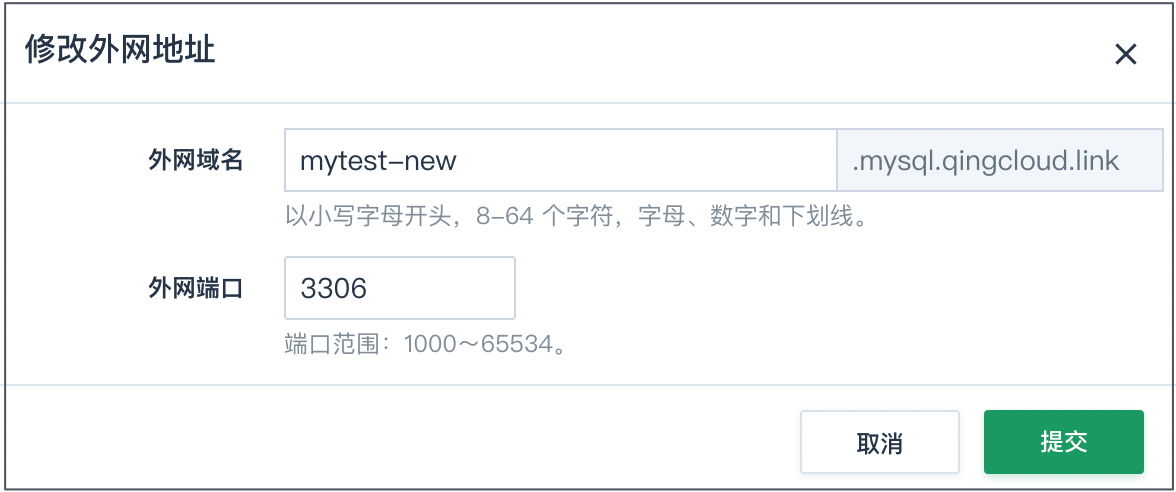
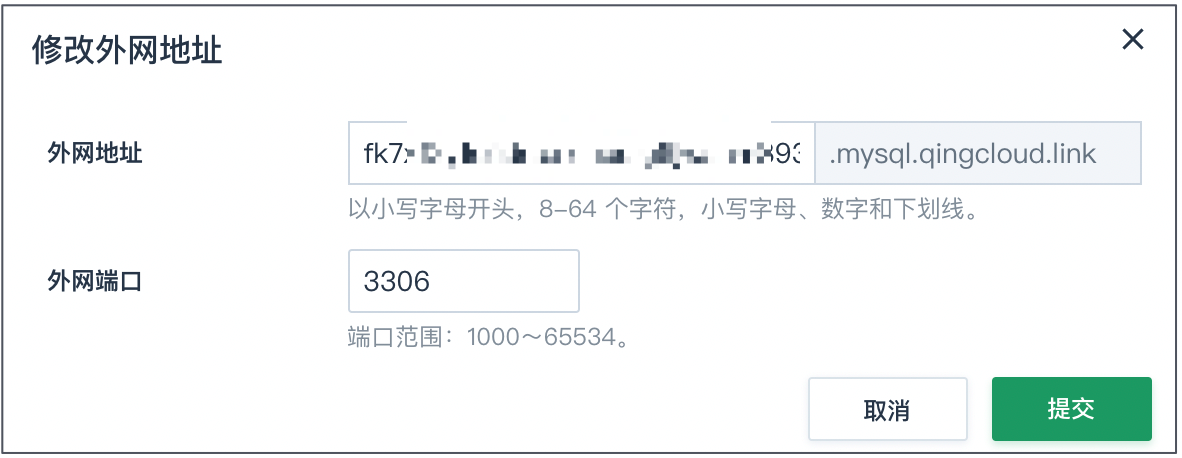
mysql，middware *：Add the new feature (#435)
* mysql *: add the new feature

* middware *：fix the link-title

* mysql/manual/cluster_lifecycle : Add the upgrade

Changed region(s): [[0.0, 0.0, 1.0, 1.0], [0.2449, 0.3057, 0.949, 0.4891], [0.2449, 0.5197, 0.5204, 0.7642]]

diff --git a/content/database/mysql/faq/access_problems.md b/content/database/mysql/faq/access_problems.md
@@ -14,39 +14,45 @@ draft: false
 ## 排查集群状态
 
 **排查方法** 
+
 1. 登录 AppCenter 集群管理页面，检查目标集群的运行状态是否为**活跃**。
 2. 查看集群节点资源状态，检查资源**硬盘使用率**指标是否已超过85%，硬盘空间已不足。
-3. 查看实例连接数检查**全部连接数**等服务指标，并通过`show variables like '%max%connections%';`查看集群最大连接数，确认连接数是否过满。
-         
+3. 查看实例连接数检查**全部连接数**等服务指标，并通过查看集群最大连接数，确认连接数是否过满。
+
    -`max_connections` 指允许同时连接的客户端总数。如果设定值为 `default`，表示最大连接数随内存规格变化。
-         
+
    -`max_user_connections` 指特定 MySQL 账号允许的最大同时连接数。
 
-**可能原因** 
+**可能原因**
+
 1. MySQL Plus 系统故障、状态异常，以及集群或表被锁定等。
 2. 数据库**硬盘使用率**超过85%后，数据库可能不可用，不能正常执行连接、写入等操作。
 3. 数据库连接数过满，可能会导致业务侧无法正常连接，也会导致实例全量备份和增量备份失败，影响业务的正常使用。
 
-**解决办法** 
+**解决办法**
+
 1. 选中目标集群，选择**更多操作** > **重启**，尝试重启数据库。
 2. 扩容集群硬盘空间，提升高硬盘可使用空间；删除过期数据；缩短 binlog 本地保留时长；对 CPU 、内存、硬盘等资源指标开启监控告警，及时了解集群资源状态。
 3. 排查业务连接是否有效，释放空闲连接；设置 `default` ，并扩容集群内存空间，提高 `max_connections` 值；对当前线程连接数等服务指标开启监控告警，及时了解集群服务状态。
 
 ## 排查连接方式
 
-**排查方法** 
+**排查方法**
+
 1. 检查已安装 MySQL 客户端版本是否低于集群 MySQL 版本。
 2. 登录 AppCenter 集群管理页面，检查目标集群是否开启 **SSL 加密传输**，以及检查用户账号是否开启**加密认证**。
 3. 检查连接命令是否正确。
 4. 在集群**账号**列表，检查连接用户账号是否正确授权或被删除。
 
 **可能原因** 
+
 1. MySQL 客户端版本低于集群 MySQL 版本，兼容性问题导致不能正常连接。
 2. 集群开启 **SSL 加密传输**后，用户账号未开启**加密认证**，或未正确上传证书或连接命令不完整。
 3. 连接命令不正确。
 4. 用户账号未被授权为`%`；用户账号被删除，不支持连接。
 
-**解决办法** 
+**解决办法**
+
 1. 确认数据库内核版本，重新选择 MySQL 客户端相应版本并安装。
 2. 同时开启集群 **SSL 加密传输**和数据库账户**加密认证**，且需将 SSL 证书上传到服务器。
 3. 获取正确的连接地址、端口参数配置、用户账号和密码、SSL 证书名等信息，并重试连接实例。
@@ -55,26 +61,31 @@ draft: false
 **正确连接方式示例：**
  
 - 开启 SSL 加密传输后，通过外网地址连接：`mysql -h <外网地址> -P 3306 -u testuser -p --ssl-ca=ca.pem --ssl-cert=client-cert.pem --ssl-key=client-key.pem`
+
 - 开启 SSL 加密传输后，通过内网地址连接：`mysql -h <外网地址> -P 3306 -u testuser -p --ssl-ca=ca.pem --ssl-cert=client-cert.pem --ssl-key=client-key.pem`
 
-> **注意** 
-> 
+> **注意**
+>
 > SSL 证书文件需上传到服务器，且需放在执行连接命令的路径下。
 
 ## 排查网络问题
 
 ### 内网地址连接
-**排查方法** 
+
+**排查方法**
+
 1. 检查云服务器与目标 MySQL Plus 集群是否在同一区域同一 VPC 网络。
 2. 检查云服务器关联安全组规则。
 3. 通过 `telnet <内网地址> <端口号>`命令，检查当前云服务是否可正常连接到数据库端口。
 
-**可能原因** 
+**可能原因**
+
 1. 不同区域或不同 VPC 网络的云资源之间网络隔离，内网互不相通，无法连接。
 2. 云服务器关联安全组未允许对外访问目标集群。
 3. 云服务器无法访问集群开放端口。
 
-**解决办法** 
+**解决办法**
+
 1. 根据就近原则，迁移数据库资源或重新购买云服务器，使其在同一 VPC 网络内；通过QingCloud 的 **VPC 网络**的`隧道服务`和 `VPN 服务`，打通资源间不同区域或不同 VPC 的网络。
 2. 为云服务器安全组添加上行规则，允许访问目标集群。
 3. 若云服务器无法连接目标数据库端口，请提工单联系技术支持。
@@ -82,12 +93,14 @@ draft: false
 ### 外网地址连接
 
 **排查方法** 
+
 1. IP 白名单添加`0.0.0.0/0`，检查是否能正常连接。
 2. 检查云服务器关联安全组规则。
 3. 检查云服务器子网关联网络 ACL 规则。
 4. 同区域云服务器进行 ping 集群 IP 测试验证。
 
 **可能原因** 
+
 1. 外部服务器 IP 地址变动等，导致白名单中配置不正确。
 2. 云服务器关联安全组未允许对外访问目标集群。
 3. 云服务器绑定的私有网络**启用**了网络 ACL，但未设置允许对外访问目标集群。
@@ -99,7 +112,7 @@ draft: false
    -正常连接，则在成功连接的客户端，执行`show processlist`查询进程信息。在 Host 行获取服务器正确 IP 地址，并将其添加到白名单。
 
    -不能连接，则请排查其他可能原因。
-   
+
    > **说明** 
    > 
    > `0.0.0.0/0`表示允许任何服务器连接数据库。验证结束后，建议立即删除白名单中配置。

diff --git a/content/database/mysql/manual/mgt_connect/mgt_external_network.md b/content/database/mysql/manual/mgt_connect/mgt_external_network.md
@@ -9,13 +9,13 @@ draft: false
 
 
 
-申请外网地址后，<!--若需修改外网访问地址，可修改外网域名和端口；-->若不再使用外网地址，可释放外网地址。
+申请外网地址后，若需修改外网访问地址，可修改外网域名和端口；若不再使用外网地址，可释放外网地址。
 
-> **说明**
-> 
-> 当前暂不支持修改外网地址。
+本小节主要介绍如何管理已申请的 MySQL Plus 外网地址，主要包括修改和释放外网地址。
 
-本小节主要介绍如何管理已申请的 MySQL Plus 外网地址，主要包括释放外网地址。
+## 约束限制
+
+- 外网域名全局唯一。若修改后域名冲突，将提示“该域名已存在，请修改”。
 
 ## 前提条件
 
@@ -23,18 +23,18 @@ draft: false
 - 已创建 MySQL Plus 集群，且集群状态为**活跃**。
 - 已开启外网访问。
 
-<!--## 修改外网地址
+## 修改外网地址
 
 1. 登录 QingCloud 管理控制台。
 2. 选择**产品与服务** > **关系型数据库 MySQL Plus**，进入集群管理页面。
 3. 选择目标集群，点击目标集群 ID，进入集群详情页面。
-4. 在**连接信息**模块，在 **外网地址**下方，点击编辑，弹出外网地址和 IP 配置窗口。
+4. 在**连接信息**模块，在 **外网地址**下方，点击**修改**，弹出修改外网地址窗口。
    
     <img src="../../../_images/modify_external_network.png" alt="修改外网地址" style="zoom:50%;" />
 
-5. 输入目标外网地址和端口号。
+5. 编辑外网地址和端口号。
     
-    **外网域名**: 不支持为空；长度8～64个字符；以小写字母开头，可包含小写字母（a～z）、大写字母（A～Z）、数字（0～9）、特殊字符（_)。
+    **外网地址**: 不支持为空；长度8～64个字符；以小写字母开头，可包含小写字母（a～z）、数字（0～9）、特殊字符（_)。
     
     **外网端口**: 默认值为3306；不支持为空；不支持大小写字母和特殊字符；端口范围1000～65534。
 
@@ -43,11 +43,7 @@ draft: false
     > 修改**外网端口**后，系统自动放通防火墙规则，您无须另行配置。
    
 6. 点击**提交**，返回集群详情页面，即可使用修改后的外网地址。
-   
-> **说明**
-> 
-> 如果修改后外网域名与 QingCloud 云平台域名重复，将提示域名验证失败，请重新修改域名。
--->
+
 ## 释放外网地址
 
 1. 登录 QingCloud 管理控制台。
@@ -61,4 +57,4 @@ draft: false
 
 > **说明**
 > 
-> 外网地址被释放后，外网地址和 IP 白名单将留存。再次开启外网访问时，自动启用保留地址和 IP 白名单。
+> 外网地址被释放后，外网域名和 IP 白名单将留存。再次申请外网地址时，自动启用保留域名和 IP 白名单。

diff --git a/content/database/mysql/manual/cluster_lifecycle/upgrade.md b/content/database/mysql/manual/cluster_lifecycle/upgrade.md
@@ -1,0 +1,43 @@
+---
+title: "版本升级"
+description: 本小节主要介绍如何升级 MySQL Plus 集群。 
+keywords: mysql plus 升级集群；
+weight: 15
+collapsible: false
+draft: false
+---
+
+
+当 MySQL Plus 发布新版本后，系统将自动检测到有版本待滚动升级。MySQL Plus 支持在线升级集群到最新版本。
+
+> **注意**
+> 
+> 版本升级过程，业务将被中断，请在业务低峰期进行。
+
+本小节主要介绍如何在线升级 MySQL Plus 集群版本。
+
+## 约束限制
+
+- 仅支持集群同系列的版本升级。例如`基础版-1.0.8`可升级到`基础版-1.0.9`，而不可以直接升级到`高可用版1.0.9`。
+- 仅支持升级到更高版本。
+- 仅检测到有新版本时，才开放升级操作。
+
+## 前提条件
+
+- 已获取 QingCloud 管理控制台登录账号和密码，且已获取集群操作权限。
+- 已创建 MySQL Plus 集群，且集群状态为**活跃**。
+
+## 创建扩容
+
+1. 登录 QingCloud 管理控制台。
+2. 选择**产品与服务** > **数据库与缓存** > **关系型数据库 MySQL Plus**，进入集群管理页面。
+3. 点击目标集群 ID，进入集群详情页面。
+4. 在**基本属性**模块，点击集群操作下拉菜单。
+5. 展开下拉菜单，点击**升级**。
+   
+   <img src="../../../_images/upgrade.png" alt="升级集群" style="zoom:50%;" />
+
+6. 选择升级到的版本。
+7. 确认配置信息无误后，点击**提交**，返回节点列表页面。
+
+   待集群状态切换为**活跃**，即升级完毕。

diff --git a/content/database/mysql/quickstart/access_mysqlplus.md b/content/database/mysql/quickstart/access_mysqlplus.md
@@ -19,10 +19,11 @@ MySQL Plus 支持通过内网地址和外网地址连接数据库，推荐使用
 
    内网连接地址系统默认提供，可在 MySQL Plus **连接信息**模块查看。
 
-> **注意：**
+> **注意**
 > 
-> - 云服务器和数据库须是同一账号，且在同一个 VPC 内或同在基础网络内。
-> - 对于不同的 VPC 下（包括同账号/不同账号，同地域/不同地域）的云服务器和数据库，通过QingCloud **VPC 网络**的`隧道服务`和 `VPN 服务`，打通云服务器和数据库之间网络。
+> -云服务器和数据库须是同一账号，且在同一个 VPC 内或同在基础网络内。
+> 
+> -对于不同的 VPC 下（包括同账号/不同账号，同地域/不同地域）的云服务器和数据库，通过QingCloud **VPC 网络**的`隧道服务`和 `VPN 服务`，打通云服务器和数据库之间网络。
 
 - 外网地址连接：无法通过内网连接时，可通过外网地址连接云数据库 MySQL。
   
@@ -55,6 +56,7 @@ MySQL Plus 支持通过内网地址和外网地址连接数据库，推荐使用
    ```
 
    外网连接回显示例：
+
    ```shell
    $ mysql -h gz-cdb-xx123xx.mysql.qingcloud.link -P <3306> -u test_mysql -p
    Enter password：

diff --git a/content/database/mysql/manual/mgt_connect/enable_external_network.md b/content/database/mysql/manual/mgt_connect/enable_external_network.md
@@ -21,7 +21,7 @@ draft: false
 
 - **IP 白名单**指允许外网访问 MySQL Plus 集群的 IP 清单，建议您定期维护白名单，提高集群外网访问安全。需要设置 IP 白名单的场景如下：
    
-   - 若需允许外部服务器正常访问集群，需要将外部 IP 地址添加至 IP白名单。
+   - 若需允许外部服务器正常访问集群，需要将外部 IP 地址添加至 IP 白名单。
   
    - 若需允许不同 VPC 网络服务器访问集群，可选择集群切换 VPC 网络或将服务器外网 IP 地址添加到 IP 白名单。
 
@@ -36,7 +36,6 @@ draft: false
 1. [申请外网地址](#申请外网地址)
    
 2. [设置 IP 白名单](#设置-ip-白名单)
-
   
 ### 申请外网地址
    
@@ -82,6 +81,6 @@ draft: false
 
 ## 后续管理
 
- - [管理外网地址](../mgt_external_network)
+- [管理外网地址](../mgt_external_network)
   
- - [管理 IP 白名单](../mgt_whitelist)
+- [管理 IP 白名单](../mgt_whitelist)

diff --git a/content/database/mysql/faq/access.md b/content/database/mysql/faq/access.md
@@ -37,10 +37,12 @@ draft: false
 
 ## 如何定位本地设备的公网 IP 地址?
 
-通过外网访问 MySQL Plus 数据库前，需要将本地设备的固定公网 IP 添加到白名单。本小节主要介绍如何正确获取本地设备的公网 IP。
+通过外网访问 MySQL Plus 数据库前，需要将本地设备的固定公网 IP 添加到白名单。
+
+本小节主要介绍如何正确获取本地设备的公网 IP。
 
 1. 设置 IP 白名单。
-   
+
    将本地公网网段或者`0.0.0.0/0`，添加到 MySQL Plus 的白名单，允许全网段可访问数据库。详见[设置 IP 白名单](../../manual/mgt_connect/mgt_whitelist)。
    
    > **说明；** 

diff --git a/content/database/mysql/manual/cluster_lifecycle/off_and_on.md b/content/database/mysql/manual/cluster_lifecycle/off_and_on.md
@@ -2,7 +2,7 @@
 title: "启停集群"
 description: 本小节主要介绍如何开启和关闭 MySQL Plus 集群。 
 keywords: mysql plus 开启；关闭
-weight: 15
+weight: 20
 collapsible: false
 draft: false
 ---

diff --git a/content/middware/rabbitmq/_index.md b/content/middware/rabbitmq/_index.md
@@ -1,6 +1,6 @@
 ---
-title: "RabbitMQ服务"
-linkTitle: "RabbitMQ服务"
+title: "RabbitMQ 服务"
+linkTitle: "RabbitMQ 服务"
 weight: 4
 collapsible: true
 type: "product"

diff --git a/content/middware/rocketmq/_index.md b/content/middware/rocketmq/_index.md
@@ -1,6 +1,6 @@
 ---
-title: "RocketMQ服务"
-linkTitle: "RocketMQ服务"
+title: "RocketMQ 服务"
+linkTitle: "RocketMQ 服务"
 weight: 7
 collapsible: true
 type: "product"

diff --git a/content/middware/kafka/_index.md b/content/middware/kafka/_index.md
@@ -1,6 +1,6 @@
 ---
-title: "Kafka服务"
-linkTitle: "Kafka服务"
+title: "Kafka 服务"
+linkTitle: "Kafka 服务"
 weight: 1
 collapsible: true
 type: "product"

diff --git a/content/middware/_index.md b/content/middware/_index.md
@@ -1,5 +1,5 @@
 ---
-title: "中间件服务"
+title: "消息队列与中间件"
 linkTitle: "Document"
 _build:
  render: false 
